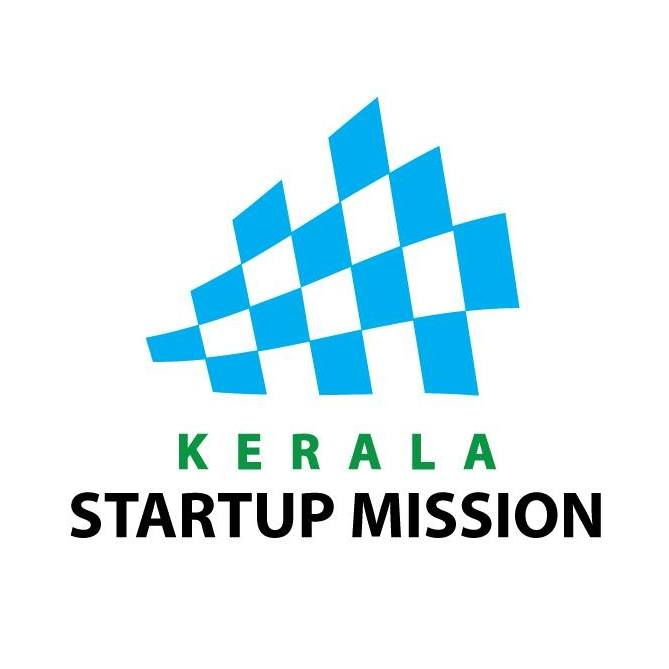
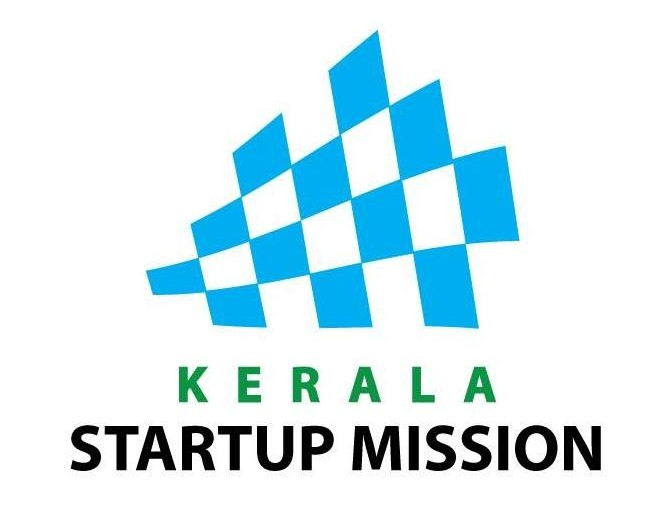
Add tab UI, transitions and checkbox styles
Introduce a modern tab UI and smooth form transitions plus improved checkbox styling in get_quote.css. Update the get-quote template to wrap checkbox text in a span, remove the duplicated inline styles, and add a switchForm JS function with an initial DOMContentLoaded state to toggle forms. Also update the kerala_sum.jpg asset. These changes improve UX and centralize styling/behavior into CSS/JS.

Changed region(s): [[0.0897, 0.435, 0.8969, 0.932], [0.299, 0.0621, 0.7773, 0.435]]

diff --git a/templates/sections/get-quote/body.html b/templates/sections/get-quote/body.html
@@ -36,7 +36,7 @@
       <div class="qf-field">
         <label class="qf-label">Service Interest</label>
         <div class="qf-checkboxes">
-          <label><input type="checkbox"> Freight Forwarding</label>
+          <label><input type="checkbox"> <span> Freight Forwarding </span></label>
           <label><input type="checkbox"> Customs Clearance</label>
           <label><input type="checkbox"> Documentation</label>
           <label><input type="checkbox"> Warehousing</label>
@@ -196,36 +196,30 @@ Maharastra-400614, India
     tabs[1].classList.add('active');
   }
 }
+
 </script>
+<script>
+function switchForm(type) {
+  const bpo = document.getElementById('bpo-form');
+  const it  = document.getElementById('it-form');
 
-<style>
-  /* Tabs */
-.qf-tabs {
-  display: flex;
-  gap: 10px;
-  margin-bottom: 24px;
+  const tabs = document.querySelectorAll('.qf-tab');
+
+  tabs.forEach(tab => tab.classList.remove('active'));
+
+  if (type === 'bpo') {
+    bpo.classList.add('active');
+    it.classList.remove('active');
+    tabs[0].classList.add('active');
+  } else {
+    it.classList.add('active');
+    bpo.classList.remove('active');
+    tabs[1].classList.add('active');
+  }
 }
 
-.qf-tab {
-  flex: 1;
-  padding: 10px;
-  border-radius: 8px;
-  border: 1px solid #e5e7eb;
-  background: #f8fafc;
-  font-weight: 600;
-  cursor: pointer;
-  transition: all 0.25s ease;
-}
-
-/* Active tab */
-.qf-tab.active {
-  background: #2563eb;
-  color: #fff;
-  border-color: #2563eb;
-}
-
-/* Hover */
-.qf-tab:hover {
-  transform: translateY(-1px);
-}
-</style>
+/* 🔥 INITIAL STATE */
+document.addEventListener("DOMContentLoaded", () => {
+  document.getElementById('bpo-form').classList.add('active');
+});
+</script>

diff --git a/static/css/get_quote.css b/static/css/get_quote.css
@@ -228,6 +228,74 @@
   }
   .qf-security-item svg { width: 13px; height: 13px; stroke: #94a3b8; fill: none; stroke-width: 2; stroke-linecap: round; stroke-linejoin: round; }
 
+  /* 🔥 Tabs (Modern Toggle Style) */
+.qf-tabs {
+  display: flex;
+  background: #f1f5f9;
+  border-radius: 12px;
+  padding: 4px;
+  margin-bottom: 24px;
+}
+
+.qf-tab {
+  flex: 1;
+  padding: 10px;
+  border: none;
+  background: transparent;
+  font-family: 'Sora', sans-serif;
+  font-size: 0.85rem;
+  font-weight: 700;
+  color: #64748b;
+  border-radius: 10px;
+  cursor: pointer;
+  transition: all 0.35s ease;
+}
+
+.qf-tab.active {
+  background: #fff;
+  color: var(--blue);
+  box-shadow: 0 4px 14px rgba(0,0,0,0.08);
+}
+
+/* 🔥 Smooth Form Transition */
+.qf-dynamic {
+  opacity: 0;
+  transform: translateY(10px);
+  pointer-events: none;
+  transition: all 0.35s ease;
+  height: 0;
+  overflow: hidden;
+}
+
+.qf-dynamic.active {
+  opacity: 1;
+  transform: translateY(0);
+  pointer-events: auto;
+  height: auto;
+}
+
+/* 🔥 Better checkbox UI */
+.qf-checkboxes label {
+  display: flex;
+  align-items: center;
+  gap: 8px;
+  padding: 10px 12px;
+  border: 1.5px solid var(--border);
+  border-radius: 8px;
+  cursor: pointer;
+  transition: all 0.25s ease;
+}
+
+.qf-checkboxes label:hover {
+  border-color: var(--blue);
+  background: rgba(37,99,235,0.04);
+}
+
+.qf-checkboxes input:checked + span {
+  color: var(--blue);
+  font-weight: 600;
+}
+
   /* ── BODY LAYOUT ── */
   .quote-body {
   max-width: 1200px;
